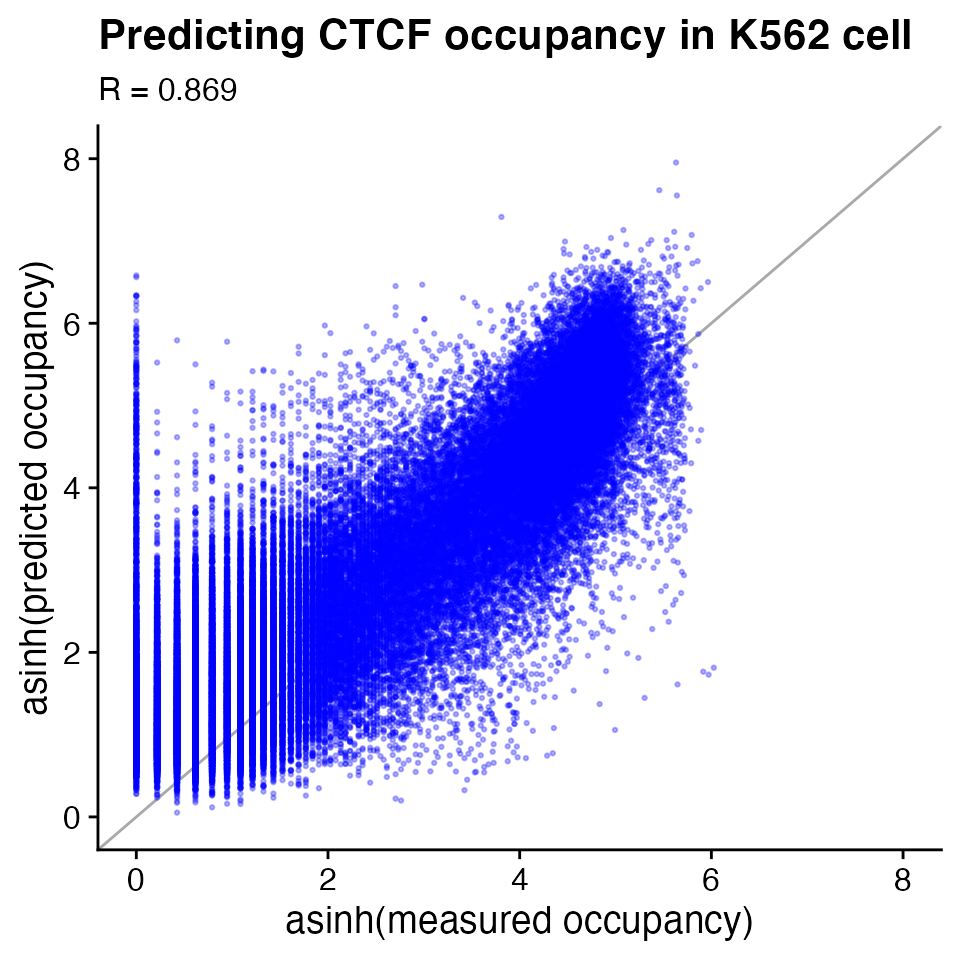
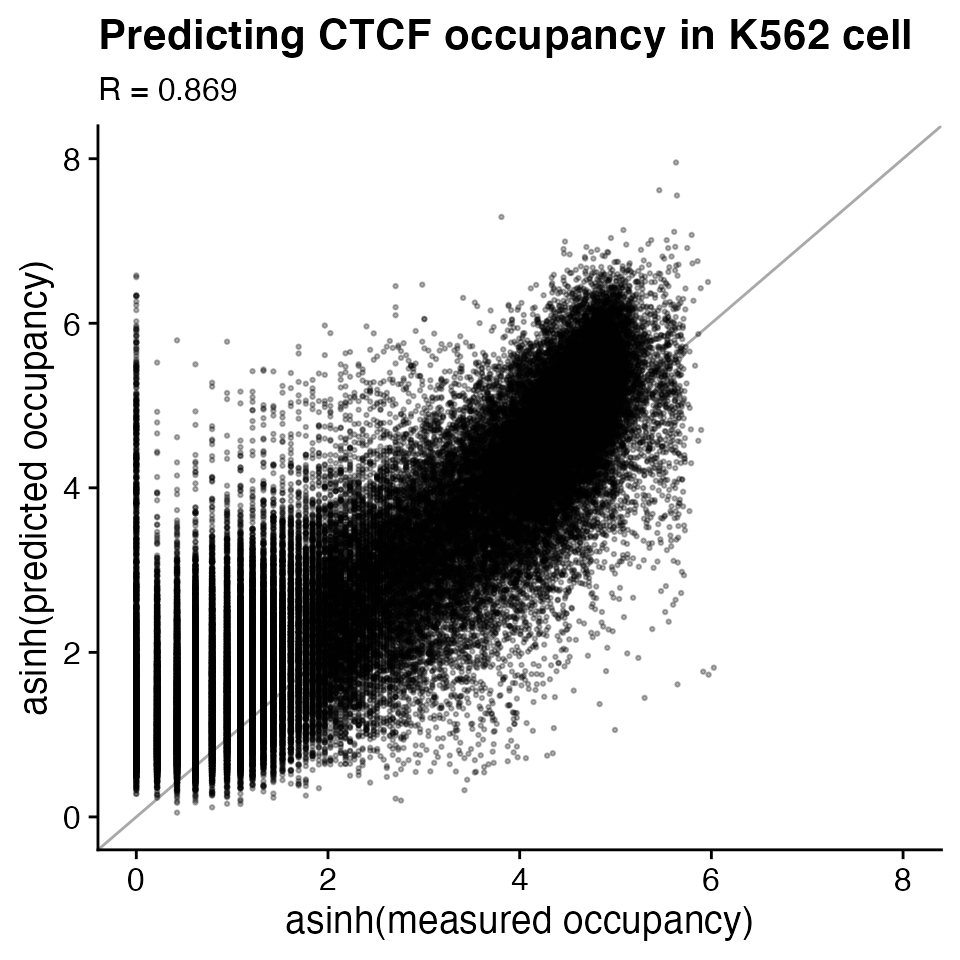
minor update of the prediction examples

Changed region(s): [[0.125, 0.25, 0.75, 0.8438], [0.7188, 0.6875, 0.75, 0.7188]]

diff --git a/docs/articles/data_preparation.html b/docs/articles/data_preparation.html
@@ -190,21 +190,15 @@
 <span class="fu"><a href="https://rdrr.io/r/base/readRDS.html" class="external-link">saveRDS</a></span><span class="op">(</span><span class="va">combined_data.df</span>, <span class="st">'processed_data/CTCF_MA0139.1_1e-5.K562.ATAC.M5.combined.data.rds'</span><span class="op">)</span></code></pre></div>
 <div class="sourceCode" id="cb11"><pre class="downlit sourceCode r">
 <code class="sourceCode R"><span class="va">combined_data.df</span> <span class="op">&lt;-</span> <span class="fu"><a href="https://rdrr.io/r/base/readRDS.html" class="external-link">readRDS</a></span><span class="op">(</span><span class="st">'../inst/example/processed_data/CTCF_MA0139.1_1e-5.K562.ATAC.M5.combined.data.rds'</span><span class="op">)</span>
-<span class="fu"><a href="https://rdrr.io/r/utils/head.html" class="external-link">head</a></span><span class="op">(</span><span class="va">combined_data.df</span><span class="op">)</span>
-<span class="co">#&gt;    chr  start    end  name pwm.score strand  p.value      bin1      bin2</span>
-<span class="co">#&gt; 1 chr1  11122  11341 site1   22.4839      - 9.17e-09 0.2232134 0.0000000</span>
-<span class="co">#&gt; 2 chr1  11180  11399 site2   20.7581      - 5.22e-08 0.0000000 0.2232134</span>
-<span class="co">#&gt; 3 chr1  24681  24900 site3   16.5645      - 1.31e-06 0.0000000 0.0000000</span>
-<span class="co">#&gt; 4 chr1  91319  91538 site4   15.1774      + 3.11e-06 0.2232134 0.2232134</span>
-<span class="co">#&gt; 5 chr1 104884 105103 site5   15.6613      - 2.32e-06 0.0000000 0.0000000</span>
-<span class="co">#&gt; 6 chr1 131227 131446 site6   13.1452      + 9.84e-06 0.0000000 0.0000000</span>
-<span class="co">#&gt;        bin3      bin4      bin5</span>
-<span class="co">#&gt; 1 0.0000000 0.0000000 0.0000000</span>
-<span class="co">#&gt; 2 0.0000000 0.0000000 0.0000000</span>
-<span class="co">#&gt; 3 0.0000000 0.0000000 0.0000000</span>
-<span class="co">#&gt; 4 0.0000000 0.4361803 0.2232134</span>
-<span class="co">#&gt; 5 0.2232134 0.0000000 0.0000000</span>
-<span class="co">#&gt; 6 0.0000000 0.0000000 0.0000000</span></code></pre></div>
+<span class="fu"><a href="https://rdrr.io/r/utils/head.html" class="external-link">head</a></span><span class="op">(</span><span class="va">combined_data.df</span>, <span class="fl">3</span><span class="op">)</span>
+<span class="co">#&gt;    chr start   end  name pwm.score strand  p.value      bin1      bin2 bin3</span>
+<span class="co">#&gt; 1 chr1 11122 11341 site1   22.4839      - 9.17e-09 0.2232134 0.0000000    0</span>
+<span class="co">#&gt; 2 chr1 11180 11399 site2   20.7581      - 5.22e-08 0.0000000 0.2232134    0</span>
+<span class="co">#&gt; 3 chr1 24681 24900 site3   16.5645      - 1.31e-06 0.0000000 0.0000000    0</span>
+<span class="co">#&gt;   bin4 bin5</span>
+<span class="co">#&gt; 1    0    0</span>
+<span class="co">#&gt; 2    0    0</span>
+<span class="co">#&gt; 3    0    0</span></code></pre></div>
 <p><strong>Step 5: Prepare ChIP-seq data (optional if you want to train your own model)</strong></p>
 <p>Download CTCF K562 ChIP-seq bam files (ENCODE ID: ENCSR000EGM, two replicates: ENCFF172KOJ and ENCFF265ZSP). We again sort and index the BAM files and print the stats of the reads using <code>samtools</code>.</p>
 <div class="sourceCode" id="cb12"><pre class="sourceCode bash"><code class="sourceCode bash"><span id="cb12-1"><a href="#cb12-1" aria-hidden="true" tabindex="-1"></a><span class="co"># rename the bam files</span></span>
@@ -231,21 +225,15 @@
 <span class="fu"><a href="https://rdrr.io/r/base/readRDS.html" class="external-link">saveRDS</a></span><span class="op">(</span><span class="va">combined_data.df</span>, <span class="st">'processed_data/CTCF_MA0139.1_1e-5.K562.ATAC.M5.ChIPcounts.combined.data.rds'</span><span class="op">)</span></code></pre></div>
 <div class="sourceCode" id="cb15"><pre class="downlit sourceCode r">
 <code class="sourceCode R"><span class="va">combined_data.df</span> <span class="op">&lt;-</span> <span class="fu"><a href="https://rdrr.io/r/base/readRDS.html" class="external-link">readRDS</a></span><span class="op">(</span><span class="st">'../inst/example/processed_data/CTCF_MA0139.1_1e-5.K562.ATAC.M5.ChIPcounts.combined.data.rds'</span><span class="op">)</span>
-<span class="fu"><a href="https://rdrr.io/r/utils/head.html" class="external-link">head</a></span><span class="op">(</span><span class="va">combined_data.df</span><span class="op">)</span>
-<span class="co">#&gt;    chr  start    end  name pwm.score strand  p.value      bin1      bin2</span>
-<span class="co">#&gt; 1 chr1  11122  11341 site1   22.4839      - 9.17e-09 0.2232134 0.0000000</span>
-<span class="co">#&gt; 2 chr1  11180  11399 site2   20.7581      - 5.22e-08 0.0000000 0.2232134</span>
-<span class="co">#&gt; 3 chr1  24681  24900 site3   16.5645      - 1.31e-06 0.0000000 0.0000000</span>
-<span class="co">#&gt; 4 chr1  91319  91538 site4   15.1774      + 3.11e-06 0.2232134 0.2232134</span>
-<span class="co">#&gt; 5 chr1 104884 105103 site5   15.6613      - 2.32e-06 0.0000000 0.0000000</span>
-<span class="co">#&gt; 6 chr1 131227 131446 site6   13.1452      + 9.84e-06 0.0000000 0.0000000</span>
-<span class="co">#&gt;        bin3      bin4      bin5      chip</span>
-<span class="co">#&gt; 1 0.0000000 0.0000000 0.0000000 0.0000000</span>
-<span class="co">#&gt; 2 0.0000000 0.0000000 0.0000000 0.0000000</span>
-<span class="co">#&gt; 3 0.0000000 0.0000000 0.0000000 0.0000000</span>
-<span class="co">#&gt; 4 0.0000000 0.4361803 0.2232134 0.0000000</span>
-<span class="co">#&gt; 5 0.2232134 0.0000000 0.0000000 2.8469054</span>
-<span class="co">#&gt; 6 0.0000000 0.0000000 0.0000000 0.2189927</span></code></pre></div>
+<span class="fu"><a href="https://rdrr.io/r/utils/head.html" class="external-link">head</a></span><span class="op">(</span><span class="va">combined_data.df</span>, <span class="fl">3</span><span class="op">)</span>
+<span class="co">#&gt;    chr start   end  name pwm.score strand  p.value      bin1      bin2 bin3</span>
+<span class="co">#&gt; 1 chr1 11122 11341 site1   22.4839      - 9.17e-09 0.2232134 0.0000000    0</span>
+<span class="co">#&gt; 2 chr1 11180 11399 site2   20.7581      - 5.22e-08 0.0000000 0.2232134    0</span>
+<span class="co">#&gt; 3 chr1 24681 24900 site3   16.5645      - 1.31e-06 0.0000000 0.0000000    0</span>
+<span class="co">#&gt;   bin4 bin5 chip</span>
+<span class="co">#&gt; 1    0    0    0</span>
+<span class="co">#&gt; 2    0    0    0</span>
+<span class="co">#&gt; 3    0    0    0</span></code></pre></div>
 <p>Replace ChIP-seq counts with binary ChIP labels (from ChIP-seq peaks) if you want to train TOP logistic version to predict TF binding probability.</p>
 </div>
 <div class="section level2">

diff --git a/docs/articles/predict_TF_occupancy_with_trained_model.html b/docs/articles/predict_TF_occupancy_with_trained_model.html
@@ -116,41 +116,29 @@
 <span class="co">#&gt; top       7   -none- numeric</span>
 <span class="co">#&gt; middle  455   -none- numeric</span>
 <span class="co">#&gt; bottom 1414   -none- numeric</span></code></pre></div>
-<p>TF- and cell-type- specific model (bottom level) parameters</p>
+<p>TF- and cell-type- specific model (bottom level) regression coefficients</p>
 <div class="sourceCode" id="cb3"><pre class="downlit sourceCode r">
-<code class="sourceCode R"><span class="fu"><a href="https://rdrr.io/r/utils/head.html" class="external-link">head</a></span><span class="op">(</span><span class="va">TOP_posterior_mean_coef</span><span class="op">$</span><span class="va">bottom</span><span class="op">)</span>
-<span class="co">#&gt;                  Intercept         PWM       Bin1      Bin2         Bin3</span>
-<span class="co">#&gt; ATF1.K562       -1.7690767  0.21758724 0.10161658 0.4209041 -0.416652011</span>
-<span class="co">#&gt; BACH1.GM12878    0.3781784  0.04573713 0.15204184 0.2209277 -0.004968313</span>
-<span class="co">#&gt; BACH1.K562      -0.2657850  0.07925225 0.07578085 0.2991205 -0.012988483</span>
-<span class="co">#&gt; BATF.GM12878    -0.4203831  0.07440667 0.15052131 0.4343648 -0.089721355</span>
-<span class="co">#&gt; BHLHE40.A549     1.6517474 -0.05898423 0.04100423 0.2841420 -0.034521036</span>
-<span class="co">#&gt; BHLHE40.GM12878  0.2321256  0.05451968 0.20259419 0.4790257 -0.080095435</span>
-<span class="co">#&gt;                      Bin4       Bin5</span>
-<span class="co">#&gt; ATF1.K562       0.4456277 0.10719844</span>
-<span class="co">#&gt; BACH1.GM12878   0.2045168 0.14301801</span>
-<span class="co">#&gt; BACH1.K562      0.2997322 0.02633572</span>
-<span class="co">#&gt; BATF.GM12878    0.4279685 0.12726595</span>
-<span class="co">#&gt; BHLHE40.A549    0.3287464 0.04964573</span>
-<span class="co">#&gt; BHLHE40.GM12878 0.4441979 0.14729243</span></code></pre></div>
-<p>TF-specific cell-type-generic model (middle level) parameters</p>
+<code class="sourceCode R"><span class="fu"><a href="https://rdrr.io/r/utils/head.html" class="external-link">head</a></span><span class="op">(</span><span class="va">TOP_posterior_mean_coef</span><span class="op">$</span><span class="va">bottom</span>, <span class="fl">3</span><span class="op">)</span>
+<span class="co">#&gt;                Intercept        PWM       Bin1      Bin2         Bin3      Bin4</span>
+<span class="co">#&gt; ATF1.K562     -1.7690767 0.21758724 0.10161658 0.4209041 -0.416652011 0.4456277</span>
+<span class="co">#&gt; BACH1.GM12878  0.3781784 0.04573713 0.15204184 0.2209277 -0.004968313 0.2045168</span>
+<span class="co">#&gt; BACH1.K562    -0.2657850 0.07925225 0.07578085 0.2991205 -0.012988483 0.2997322</span>
+<span class="co">#&gt;                     Bin5</span>
+<span class="co">#&gt; ATF1.K562     0.10719844</span>
+<span class="co">#&gt; BACH1.GM12878 0.14301801</span>
+<span class="co">#&gt; BACH1.K562    0.02633572</span></code></pre></div>
+<p>TF-specific cell-type-generic model (middle level) regression coefficients</p>
 <div class="sourceCode" id="cb4"><pre class="downlit sourceCode r">
-<code class="sourceCode R"><span class="fu"><a href="https://rdrr.io/r/utils/head.html" class="external-link">head</a></span><span class="op">(</span><span class="va">TOP_posterior_mean_coef</span><span class="op">$</span><span class="va">middle</span><span class="op">)</span>
-<span class="co">#&gt;           Intercept         PWM       Bin1      Bin2        Bin3      Bin4</span>
-<span class="co">#&gt; ATF1    -0.97200352 0.142192327 0.09213494 0.3566015 -0.20341658 0.3664693</span>
-<span class="co">#&gt; BACH1   -0.02804098 0.062251044 0.10576962 0.2685970 -0.01240542 0.2649561</span>
-<span class="co">#&gt; BATF    -0.30109722 0.074633798 0.10686063 0.3500711 -0.04610244 0.3532608</span>
-<span class="co">#&gt; BHLHE40  0.78484284 0.003049302 0.10912619 0.3748675 -0.02425472 0.3795166</span>
-<span class="co">#&gt; CEBPB   -1.25178717 0.157487528 0.07627769 0.4170173 -0.26484919 0.3133201</span>
-<span class="co">#&gt; CREB1   -1.73595216 0.193588383 0.12749083 0.3675073 -0.11923783 0.2555481</span>
-<span class="co">#&gt;               Bin5</span>
-<span class="co">#&gt; ATF1    0.09053287</span>
-<span class="co">#&gt; BACH1   0.08219806</span>
-<span class="co">#&gt; BATF    0.10103080</span>
-<span class="co">#&gt; BHLHE40 0.09942905</span>
-<span class="co">#&gt; CEBPB   0.14050633</span>
-<span class="co">#&gt; CREB1   0.16107756</span></code></pre></div>
-<p>TF-generic model (top level) parameters</p>
+<code class="sourceCode R"><span class="fu"><a href="https://rdrr.io/r/utils/head.html" class="external-link">head</a></span><span class="op">(</span><span class="va">TOP_posterior_mean_coef</span><span class="op">$</span><span class="va">middle</span>, <span class="fl">3</span><span class="op">)</span>
+<span class="co">#&gt;         Intercept        PWM       Bin1      Bin2        Bin3      Bin4</span>
+<span class="co">#&gt; ATF1  -0.97200352 0.14219233 0.09213494 0.3566015 -0.20341658 0.3664693</span>
+<span class="co">#&gt; BACH1 -0.02804098 0.06225104 0.10576962 0.2685970 -0.01240542 0.2649561</span>
+<span class="co">#&gt; BATF  -0.30109722 0.07463380 0.10686063 0.3500711 -0.04610244 0.3532608</span>
+<span class="co">#&gt;             Bin5</span>
+<span class="co">#&gt; ATF1  0.09053287</span>
+<span class="co">#&gt; BACH1 0.08219806</span>
+<span class="co">#&gt; BATF  0.10103080</span></code></pre></div>
+<p>TF-generic model (top level) regression coefficients</p>
 <div class="sourceCode" id="cb5"><pre class="downlit sourceCode r">
 <code class="sourceCode R"><span class="fu"><a href="https://rdrr.io/r/utils/head.html" class="external-link">head</a></span><span class="op">(</span><span class="va">TOP_posterior_mean_coef</span><span class="op">$</span><span class="va">top</span><span class="op">)</span>
 <span class="co">#&gt;   Intercept         PWM        Bin1        Bin2        Bin3        Bin4 </span>

diff --git a/docs/reference/scatterplot_predictions.html b/docs/reference/scatterplot_predictions.html
@@ -74,7 +74,8 @@
   title <span class="op">=</span> <span class="st">""</span>,
   transform <span class="op">=</span> <span class="fu"><a href="https://rdrr.io/r/base/c.html" class="external-link">c</a></span><span class="op">(</span><span class="st">"asinh"</span>, <span class="st">"log2"</span>, <span class="st">"sqrt"</span><span class="op">)</span>,
   xlim <span class="op">=</span> <span class="fu"><a href="https://rdrr.io/r/base/c.html" class="external-link">c</a></span><span class="op">(</span><span class="fl">0</span>, <span class="fl">10</span><span class="op">)</span>,
-  ylim <span class="op">=</span> <span class="fu"><a href="https://rdrr.io/r/base/c.html" class="external-link">c</a></span><span class="op">(</span><span class="fl">0</span>, <span class="fl">10</span><span class="op">)</span>
+  ylim <span class="op">=</span> <span class="fu"><a href="https://rdrr.io/r/base/c.html" class="external-link">c</a></span><span class="op">(</span><span class="fl">0</span>, <span class="fl">10</span><span class="op">)</span>,
+  color <span class="op">=</span> <span class="st">"black"</span>
 <span class="op">)</span></code></pre></div>
     </div>
 

diff --git a/README.md b/README.md
@@ -15,7 +15,9 @@ It can be used to predict the quantitative occupancy (or TF binding
 probability) for many TFs using data from a single DNase- or ATAC-seq
 experiment.
 
-Install [TOP R package](https://kevinlkx.github.io/TOP/)
+[TOP R package website](https://kevinlkx.github.io/TOP/)
+
+Install TOP R package
 
 ``` r
 install.packages("devtools")
